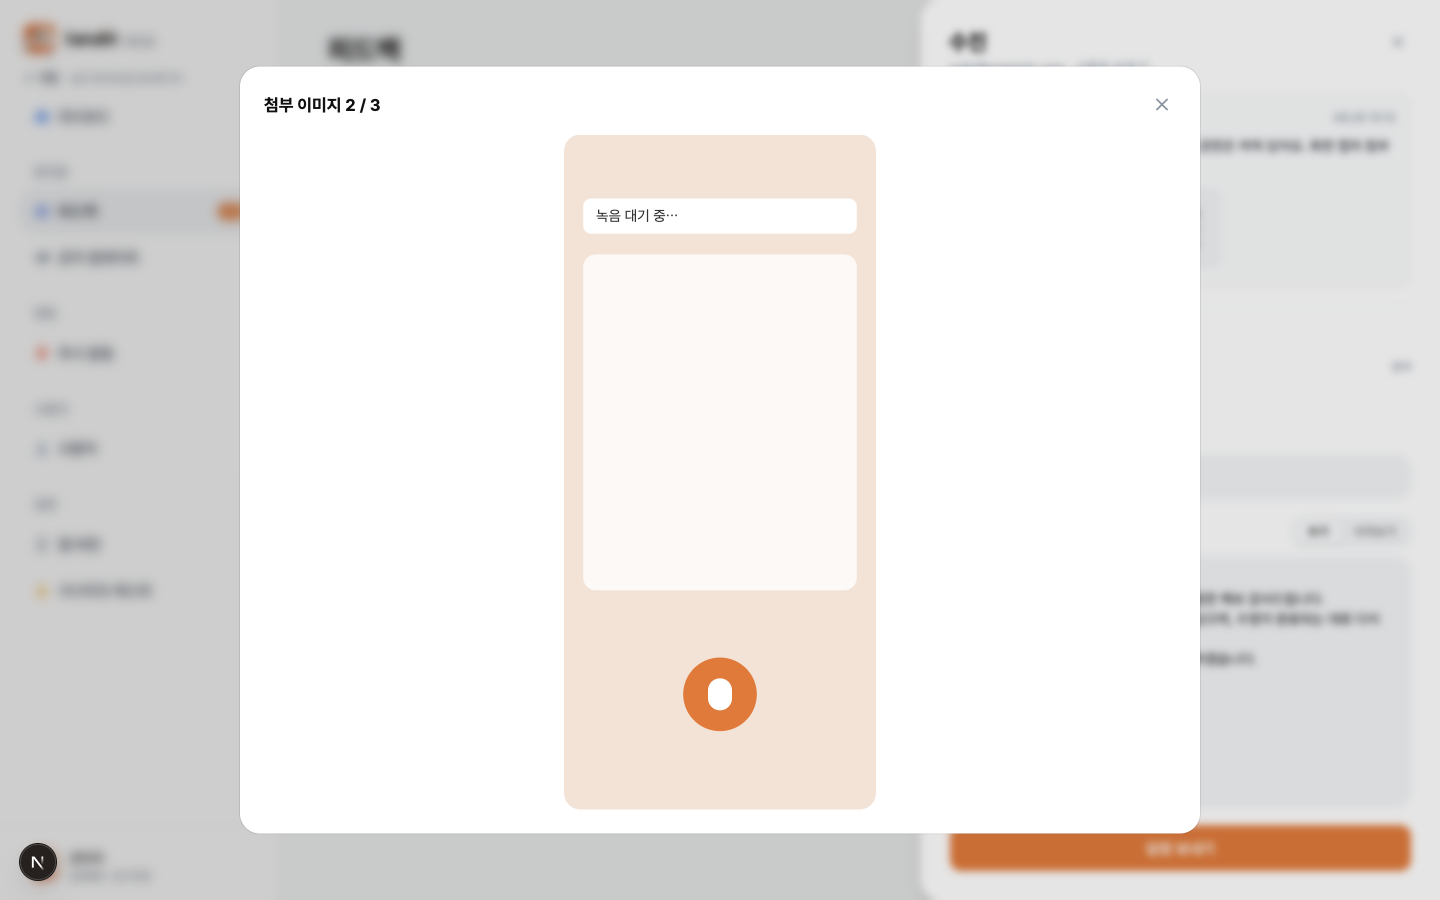
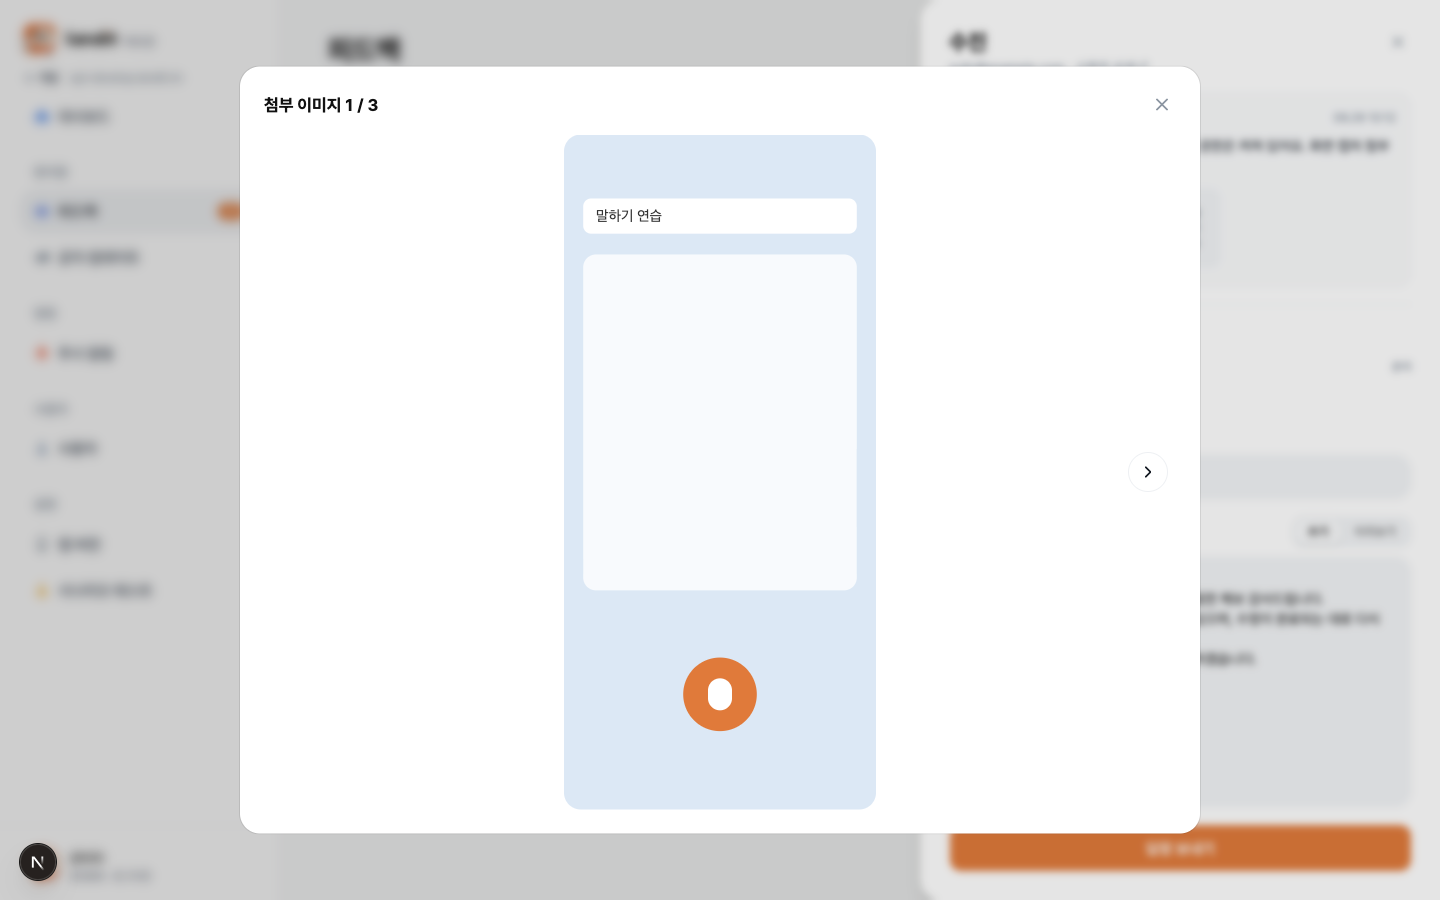
feat: 첨부 크게 보기에서 ‹ ›·← →로 다음 사진으로 넘긴다
사진이 2~3장이면 다른 장을 보려고 창을 닫고 썸네일을 다시 눌러야 했다.
이미지 좌우에 이전·다음 버튼을 두고 키보드 화살표로도 넘긴다. 첫 장엔
이전이, 마지막 장엔 다음이 없다 — 끝에서 처음으로 돌면 지금 몇 번째인지
헷갈린다. 1장이면 버튼을 그리지 않는다. 최대 3장이라 스와이프는 두지 않는다.

Changed region(s): [[0.375, 0.1244, 0.625, 0.9022], [0.25, 0.0933, 0.2812, 0.1244]]

diff --git a/src/app/(protected)/feedbacks/_ui/reply/FeedbackAttachments.tsx b/src/app/(protected)/feedbacks/_ui/reply/FeedbackAttachments.tsx
@@ -1,9 +1,9 @@
 'use client';
 
-// 피드백 원문에 붙은 사용자 첨부 사진 — 썸네일 줄, 누르면 다이얼로그로 크게 본다 (프레임에 없음).
+// 피드백 원문에 붙은 사용자 첨부 사진 — 썸네일 줄, 누르면 다이얼로그로 크게 보고 ‹ ›·← →로 넘긴다 (프레임에 없음).
 // 이미지는 같은 오리진 프록시 경로라 세션 쿠키가 자동으로 붙는다 — blob으로 바꾸지 않고 img에 바로 건다
 import { useState } from 'react';
-import { X } from 'lucide-react';
+import { ChevronLeft, ChevronRight, X } from 'lucide-react';
 
 import type { MailboxFeedbackAttachment } from '@/shared/api/schema-patch';
 import { cn } from '@/shared/lib/cn';
@@ -25,6 +25,11 @@ export function FeedbackAttachments({ attachments }: FeedbackAttachmentsProps) {
   if (images.length === 0) return null;
 
   const opened = openIndex === null ? undefined : images[openIndex];
+  // 끝에서 처음으로 돌지 않는다 — 최대 3장이라 지금 몇 번째인지가 더 중요하다
+  const hasPrev = openIndex !== null && openIndex > 0;
+  const hasNext = openIndex !== null && openIndex < images.length - 1;
+  const showPrev = () => hasPrev && setOpenIndex(openIndex - 1);
+  const showNext = () => hasNext && setOpenIndex(openIndex + 1);
 
   return (
     <>
@@ -47,6 +52,10 @@ export function FeedbackAttachments({ attachments }: FeedbackAttachmentsProps) {
         <DialogContent
           showCloseButton={false}
           className="w-[calc(100%-2rem)] gap-4 rounded-[20px] p-6 sm:max-w-[min(90vw,960px)]"
+          onKeyDown={(event) => {
+            if (event.key === 'ArrowLeft') showPrev();
+            if (event.key === 'ArrowRight') showNext();
+          }}
         >
           <header className="flex items-center gap-3">
             <DialogTitle className="flex-1 text-[17px] font-bold text-foreground">
@@ -65,18 +74,59 @@ export function FeedbackAttachments({ attachments }: FeedbackAttachmentsProps) {
           </header>
 
           {opened && (
-            // 이미지가 바뀌면 새로 마운트한다 — 앞 이미지의 실패 상태가 넘어오지 않게
-            <AttachmentImg
-              key={opened.id}
-              image={opened}
-              alt={`첨부 이미지 ${(openIndex ?? 0) + 1}`}
-              className="mx-auto max-h-[75vh] w-auto max-w-full rounded-xl object-contain"
-              fallbackClassName="h-40 w-full rounded-xl"
-            />
+            <div className="relative">
+              {/* 이미지가 바뀌면 새로 마운트한다 — 앞 이미지의 실패 상태가 넘어오지 않게 */}
+              <AttachmentImg
+                key={opened.id}
+                image={opened}
+                alt={`첨부 이미지 ${(openIndex ?? 0) + 1}`}
+                className="mx-auto max-h-[75vh] w-auto max-w-full rounded-xl object-contain"
+                fallbackClassName="h-40 w-full rounded-xl"
+              />
+              {hasPrev && (
+                <StepButton
+                  side="left"
+                  label="이전 이미지"
+                  onClick={showPrev}
+                />
+              )}
+              {hasNext && (
+                <StepButton
+                  side="right"
+                  label="다음 이미지"
+                  onClick={showNext}
+                />
+              )}
+            </div>
           )}
         </DialogContent>
       </Dialog>
     </>
+  );
+}
+
+function StepButton({
+  side,
+  label,
+  onClick,
+}: {
+  side: 'left' | 'right';
+  label: string;
+  onClick: () => void;
+}) {
+  const Icon = side === 'left' ? ChevronLeft : ChevronRight;
+  return (
+    <button
+      type="button"
+      onClick={onClick}
+      aria-label={label}
+      className={cn(
+        'absolute top-1/2 flex size-10 -translate-y-1/2 items-center justify-center rounded-full border border-hairline bg-card text-strong hover:bg-muted',
+        side === 'left' ? 'left-2' : 'right-2',
+      )}
+    >
+      <Icon className="size-5" aria-hidden />
+    </button>
   );
 }
 

diff --git a/src/app/(protected)/feedbacks/_ui/reply/FeedbackAttachments.test.tsx b/src/app/(protected)/feedbacks/_ui/reply/FeedbackAttachments.test.tsx
@@ -62,3 +62,75 @@ describe('FeedbackAttachments', () => {
     );
   });
 });
+
+describe('FeedbackAttachments 넘겨보기', () => {
+  const imageSrc = (dialog: HTMLElement) =>
+    dialog.querySelector('img')?.getAttribute('src');
+
+  async function openAt(index: number, list = attachments) {
+    render(<FeedbackAttachments attachments={list} />);
+    await userEvent.click(
+      screen.getByRole('button', { name: `첨부 이미지 ${index} 크게 보기` }),
+    );
+    return screen.findByRole('dialog');
+  }
+
+  it('다음 버튼을 누르면 다음 이미지로 넘어간다', async () => {
+    const dialog = await openAt(1);
+
+    await userEvent.click(screen.getByRole('button', { name: '다음 이미지' }));
+
+    expect(dialog).toHaveAccessibleName('첨부 이미지 2 / 2');
+    expect(imageSrc(dialog)).toBe(
+      '/api/proxy/api/v1/mailbox/feedbacks/12/attachments/35',
+    );
+  });
+
+  it('이전 버튼을 누르면 앞 이미지로 돌아간다', async () => {
+    const dialog = await openAt(2);
+
+    await userEvent.click(screen.getByRole('button', { name: '이전 이미지' }));
+
+    expect(dialog).toHaveAccessibleName('첨부 이미지 1 / 2');
+  });
+
+  it('키보드 → ←로도 넘긴다', async () => {
+    const dialog = await openAt(1);
+
+    await userEvent.keyboard('{ArrowRight}');
+    expect(dialog).toHaveAccessibleName('첨부 이미지 2 / 2');
+
+    await userEvent.keyboard('{ArrowLeft}');
+    expect(dialog).toHaveAccessibleName('첨부 이미지 1 / 2');
+  });
+
+  it('첫 장엔 이전 버튼이, 마지막 장엔 다음 버튼이 없다 — 끝에서 처음으로 돌지 않는다', async () => {
+    await openAt(1);
+
+    expect(
+      screen.queryByRole('button', { name: '이전 이미지' }),
+    ).not.toBeInTheDocument();
+
+    await userEvent.click(screen.getByRole('button', { name: '다음 이미지' }));
+
+    expect(
+      screen.queryByRole('button', { name: '다음 이미지' }),
+    ).not.toBeInTheDocument();
+  });
+
+  it('마지막 장에서 → 를 눌러도 그대로다', async () => {
+    const dialog = await openAt(2);
+
+    await userEvent.keyboard('{ArrowRight}');
+
+    expect(dialog).toHaveAccessibleName('첨부 이미지 2 / 2');
+  });
+
+  it('첨부가 1장이면 넘기기 버튼을 그리지 않는다', async () => {
+    await openAt(1, attachments.slice(0, 1));
+
+    expect(
+      screen.queryByRole('button', { name: /이미지$/ }),
+    ).not.toBeInTheDocument();
+  });
+});

diff --git a/docs/screens/feedbacks.md b/docs/screens/feedbacks.md
@@ -78,7 +78,7 @@ API: GET admin/mailbox/feedbacks · POST admin/mailbox/replies
 - **답장 템플릿 (운영자 결정 · 2026-08-26, 프레임에 없음)** — 함께 답장 아래·제목 입력 위에 "템플릿" 칩 줄. 팀이 확정한 공식 답장 문구 7종(응원 감사 · 기능 접수 · 기능 반영 · 반영 어려움 · 버그 확인 중 · 버그 수정 완료 · 문의 답변)이며, `OO`·괄호 자리는 적용 후 본문에서 직접 채운다. **유형에 맞는 템플릿이 미리 채워져 시작하고, 칩도 그 유형에 어울리는 것(+직접 만든 것)만 보인다**(문의→문의 답변 1개, 응원→응원 감사 1개, 버그→확인 중·수정 완료 2개, 기능 요청→접수·반영·반영 어려움 3개) — 적용된 칩은 진하게 표시. 템플릿 그대로면 다른 칩으로 확인 없이 바꾸고, 직접 고친 글자가 있을 때만 "쓰던 내용을 지우고 템플릿을 적용할까요?" 확인 창을 거친다. 칩 끝의 "관리"에서 어드민 안에서 문구를 고치고 추가·삭제·기본값 복원할 수 있다 — BE 저장 API가 없어 **이 브라우저(localStorage)에만 유지**되고, 팀 공유 기본값은 `_model/reply-templates.ts` 배열이 진실이다({닉네임} 자리 표시 지원). 공지용 템플릿(일반 공지·업데이트·점검)은 편지 에디터에 붙어 있다. Figma 갱신 필요.
 - **답장 영역 구분 (LAN-440 · 2026-09-04, 프레임에 없음)** — 함께 답장 행 아래에 구분선(hairline)과 소제목 "답장"을 두고, 그 안에 템플릿 칩 · "제목" 라벨 + 입력 · "본문" 라벨 + 입력을 담는다. 위(원문·함께 답장)는 무엇에 대한 답인지, 아래는 무엇을 보내는지로 읽히게 한 운영자 결정. 프레임은 라벨 없이 placeholder만 쓴다. Figma 갱신 필요.
 - **답장 본문 마크다운 (LAN-440 · 2026-09-04, 프레임에 없음)** — 앱(landit-fe LAN-436)이 답장 본문을 마크다운으로 그리므로 본문 입력은 깃허브 코멘트 입력창처럼 "본문" 라벨 오른쪽에 "쓰기 | 미리보기" 세그먼트 토글(shadcn Tabs)을 두고 — 템플릿 칩과 같은 모양이면 고르는 것으로 읽혀 토글 형태로 구분한다 —, "본문" 라벨 옆 물음표(마크다운 도움말)를 누르면 Popover에 앱에서 되는 문법표(줄바꿈·문단·굵게/기울임/취소선·코드·링크·이미지·제목·목록·체크박스·인용·표·구분선)와 "HTML 태그는 지워져요"를 보여준다. 항상 보이는 안내 문장은 알고 나면 소음이라 두지 않는다(운영자 결정). 미리보기는 앱과 같은 조합(`react-markdown` + `remark-gfm` + `remark-breaks`, `skipHtml`, `.letter-markdown` 스타일을 landit-fe globals.css에서 그대로 복사)이라 셋 중 하나라도 바꾸면 앱과 어긋난다. HTML 태그는 지워지고 `javascript:` 주소는 링크가 되지 않는다. 이미지는 textarea에 붙여넣기(Ctrl+V)하거나 끌어다 놓으면 `POST admin/content-images/presigned-url` → 스토리지 직접 PUT으로 올리고 커서 자리에 `![파일명](주소)`를 끼운다. 올리는 동안은 `![업로드 중...]()` 자리표시가 서고(여러 장은 줄바꿈으로 한 장씩, 순차 업로드), 끝나면 그 자리가 실제 주소로 바뀌며 실패하면 자리표시를 지우고 토스트로 알린다. PNG·JPG·WEBP·GIF만 받는다 — 이미지가 아닌 파일은 조용히 무시하고, SVG처럼 허용 형식이 아닌 이미지와 10MB 초과는 올리지 않고 토스트로 알린다(SVG는 스크립트를 품을 수 있어 관리자 업로드 경로에서 열지 않는다). 자리표시는 문자열 치환이 아니라 삽입 위치를 기억해 바꾼다(같은 자리표시가 여러 개일 수 있어서). 전송 API·본문 상한(1,000자)은 그대로다 — 이미지 마크다운이 상한을 잡아먹는 문제는 BE·앱 한도 확인 뒤 별도 이슈. Figma 갱신 필요.
-- **사용자 첨부 사진 (2026-09-29, 프레임에 없음)** — 앱 피드백에 사진(최대 3장, PNG·JPEG)이 붙는다(landit-be 3973d971). 피드백 원문 카드 안, 본문 아래에 80px 정사각 썸네일 줄을 둔다. 첨부가 없으면 줄 자체를 그리지 않는다. 썸네일을 누르면 앱 버전 미리보기와 같은 모양의 다이얼로그(제목 "첨부 이미지 N / 전체" + 닫기 ✕)에 원본을 화면 높이 75% 안으로 크게 띄운다 — 새 탭은 시트 맥락을 잃고, 프록시 URL이 주소창에 남아서 두지 않았다. 불러오지 못한 이미지는 깨진 아이콘 대신 같은 자리에 "이미지를 불러오지 못했어요"를 두고 누를 수 없게 한다. 이미지는 `<img src="/api/proxy{downloadUrl}">`로 바로 건다 — 같은 오리진이라 세션 쿠키가 붙고 프록시가 Bearer로 바꿔 BE 바이트를 그대로 흘려준다(blob 변환 없음). 처리중 답장 폼(시트·전체화면)과 처리완료 보낸 답장 뷰가 같은 원문 카드를 쓰므로 셋 다 보인다. Figma 갱신 필요.
+- **사용자 첨부 사진 (2026-09-29, 프레임에 없음)** — 앱 피드백에 사진(최대 3장, PNG·JPEG)이 붙는다(landit-be 3973d971). 피드백 원문 카드 안, 본문 아래에 80px 정사각 썸네일 줄을 둔다. 첨부가 없으면 줄 자체를 그리지 않는다. 썸네일을 누르면 앱 버전 미리보기와 같은 모양의 다이얼로그(제목 "첨부 이미지 N / 전체" + 닫기 ✕)에 원본을 화면 높이 75% 안으로 크게 띄운다. 첨부가 2장 이상이면 이미지 좌우의 ‹ › 버튼과 키보드 ← →로 넘긴다(첫 장엔 ‹, 마지막 장엔 › 없음 — 끝에서 처음으로 돌지 않는다. 최대 3장이라 스와이프는 두지 않았다) — 새 탭은 시트 맥락을 잃고, 프록시 URL이 주소창에 남아서 두지 않았다. 불러오지 못한 이미지는 깨진 아이콘 대신 같은 자리에 "이미지를 불러오지 못했어요"를 두고 누를 수 없게 한다. 이미지는 `<img src="/api/proxy{downloadUrl}">`로 바로 건다 — 같은 오리진이라 세션 쿠키가 붙고 프록시가 Bearer로 바꿔 BE 바이트를 그대로 흘려준다(blob 변환 없음). 처리중 답장 폼(시트·전체화면)과 처리완료 보낸 답장 뷰가 같은 원문 카드를 쓰므로 셋 다 보인다. Figma 갱신 필요.
 - 스펙 원문과 화면 프레임의 차이 (구현 시 판단 필요).
   - 스펙 원문은 "답장 기다리는 피드백 N건 · 한 통으로 답장돼요" 목록(체크 기본 on) / "처리완료 N건 접힘" / "N건에 답장 보내기" / "결과 안내 한 줄"이라 쓰여 있다.
   - 화면 프레임은 클릭한 피드백을 "피드백 원문" 카드로 크게 보여주고, 나머지 처리중 건은 "이 사용자의 다른 피드백 N건 · 함께 답장" 접힘 목록으로 둔다. 버튼 라벨은 "답장 보내기" / "답장 보내기 · N건 함께 처리". "가입" 정보, "처리완료 N건 접힘", "결과 안내 한 줄"은 프레임에 보이지 않는다.
